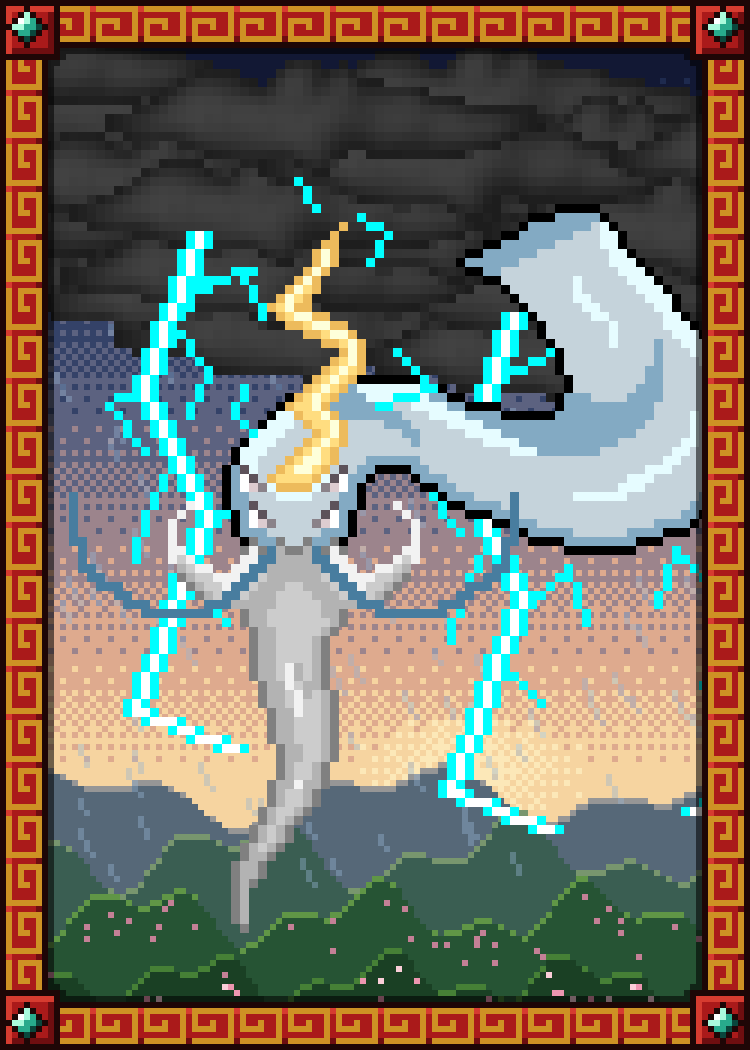
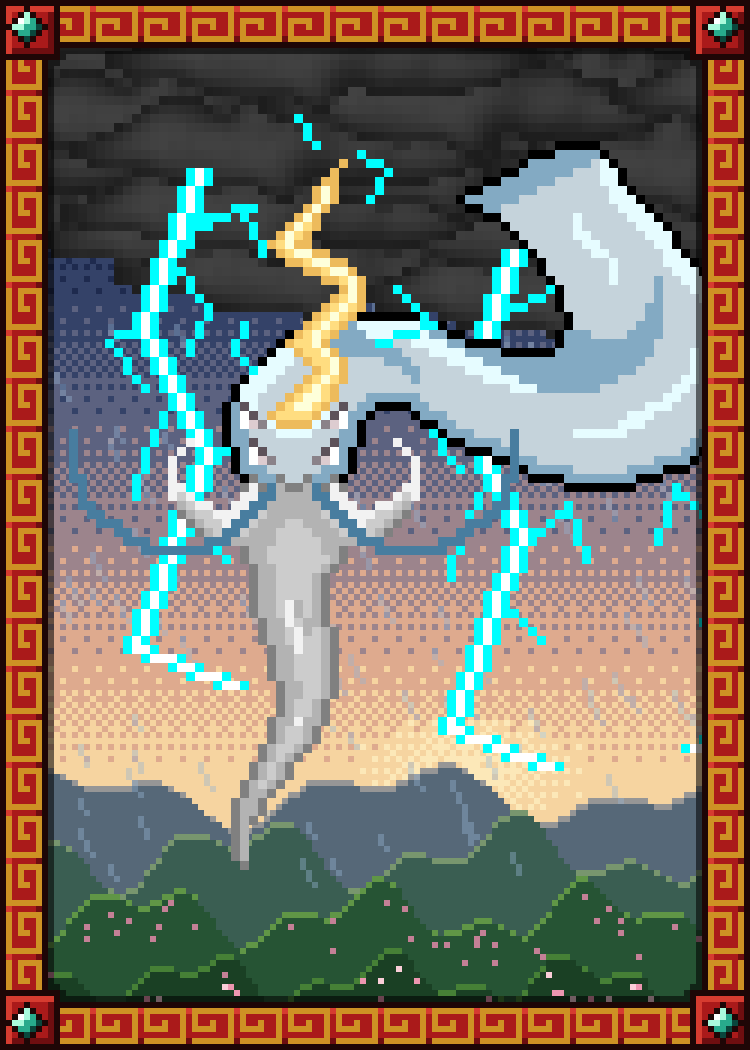
Spring Thunder: Qinglong samt Wolken bis an den oberen Rahmen
Drache, Wolken, Horn, Blitze und Bart um weitere 7 Rasterpixel (21 px)
nach oben, sodass zwischen Rahmen und Wolkendecke keine Lücke bleibt.

Claude-Session: https://claude.ai/code/session_01TEnvTzH2xD44R6Unjv7vDo

diff --git a/data/sleeve-proposals/runde4/generator/s51_spring_thunder.py b/data/sleeve-proposals/runde4/generator/s51_spring_thunder.py
@@ -109,7 +109,7 @@ for i in range(N):
 drag = ext
 bolts = sprite('r4q_bolts', B, [1525])                  # Ursprung (234, 253)
 cloud = sprite('r4q_cloud', B, [1527])                  # Ursprung (218, 234)
-DX, DY = 8, 20                                          # Lage des Drachen (Ursprung 230,247) im 3×-Raster
+DX, DY = 8, 13                                          # Lage des Drachen (Ursprung 230,247) im 3×-Raster
 # Wolke hinten, quer über den oberen Rand (zweimal gesetzt, damit die Wolkendecke die Breite füllt)
 put(cloud, -40, DY - 13 - 6)
 put(cloud, DX - 12, DY - 13)
